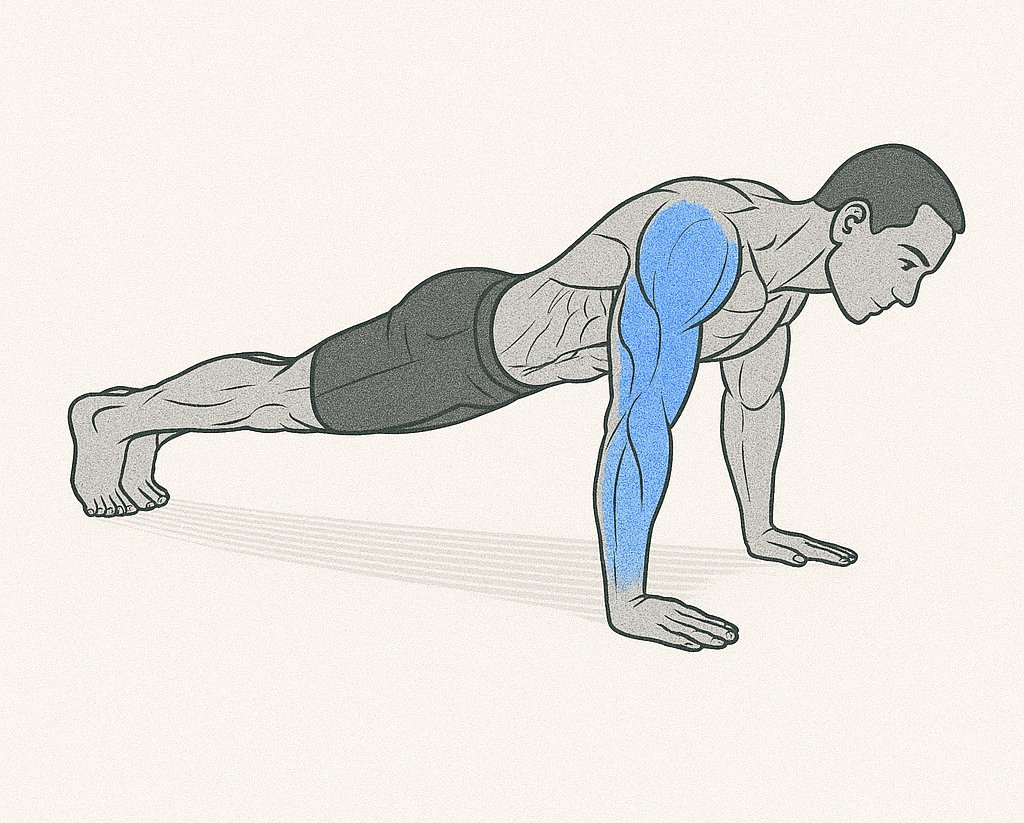
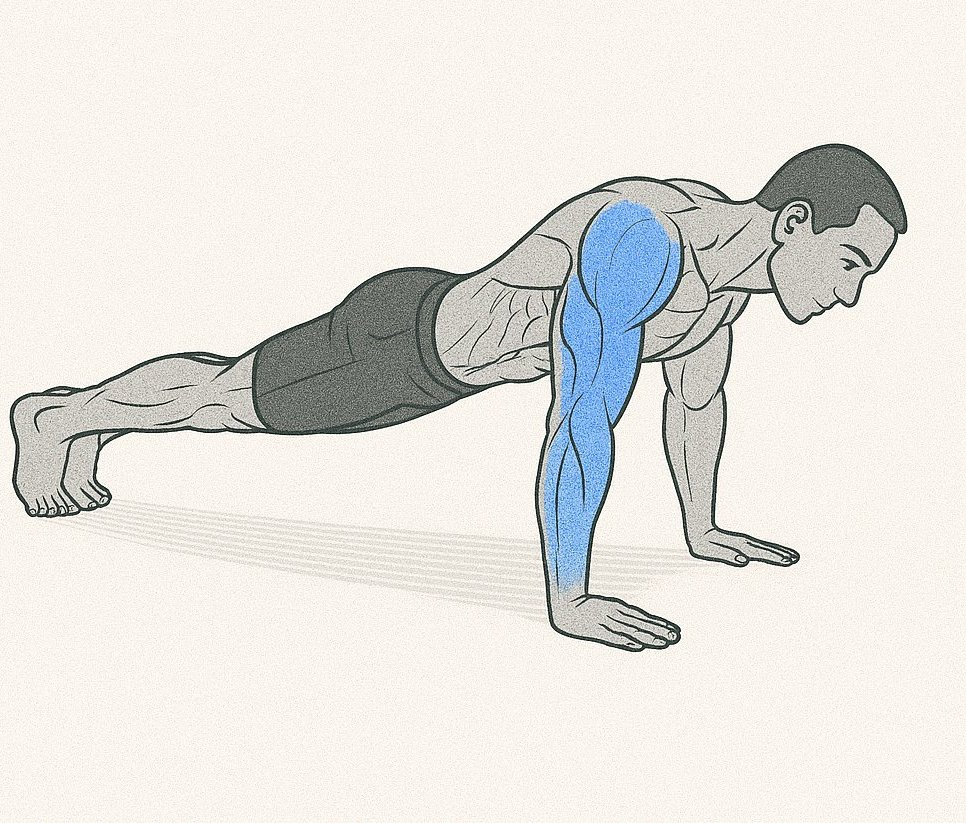
update scss

Changed region(s): [[0.0, 0.1519, 0.9627, 0.7898]]

diff --git a/src/app/pages/exercises/exercise-form.component.scss b/src/app/pages/exercises/exercise-form.component.scss
@@ -31,7 +31,9 @@ label {
 input,
 select {
   width: 100%;
-  max-width: 300px;
+  // max-width: 300px;
+  height: auto;
+  object-fit: contain;
   padding: 8px;
   border: 1px solid #ccc;
   border-radius: 6px;
@@ -45,22 +47,27 @@ select {
 }
 
 .image-card {
+  flex: 1; // allow image-card to take space
+  display: block; // instead of flex
   margin-bottom: 1rem;
-  display: flex;
-  justify-content: left;
-  align-items: left;
 
   img {
-    width: 300px;
-    height: 300px;
-    object-fit: cover;
+    width: 100%; // so it scales with container
+    height: auto;
+    object-fit: contain;
     border-radius: 12px;
     box-shadow: 0 2px 6px rgba(0, 0, 0, 0.1);
   }
+
+  @media (min-width: 768px) {
+    margin-bottom: 0;
+    margin-right: 1rem;
+  }
 }
 
+
 .form-card {
-  flex: 2;
+  flex: 1;
   display: flex;
   flex-direction: column;
   gap: 0.75rem;
